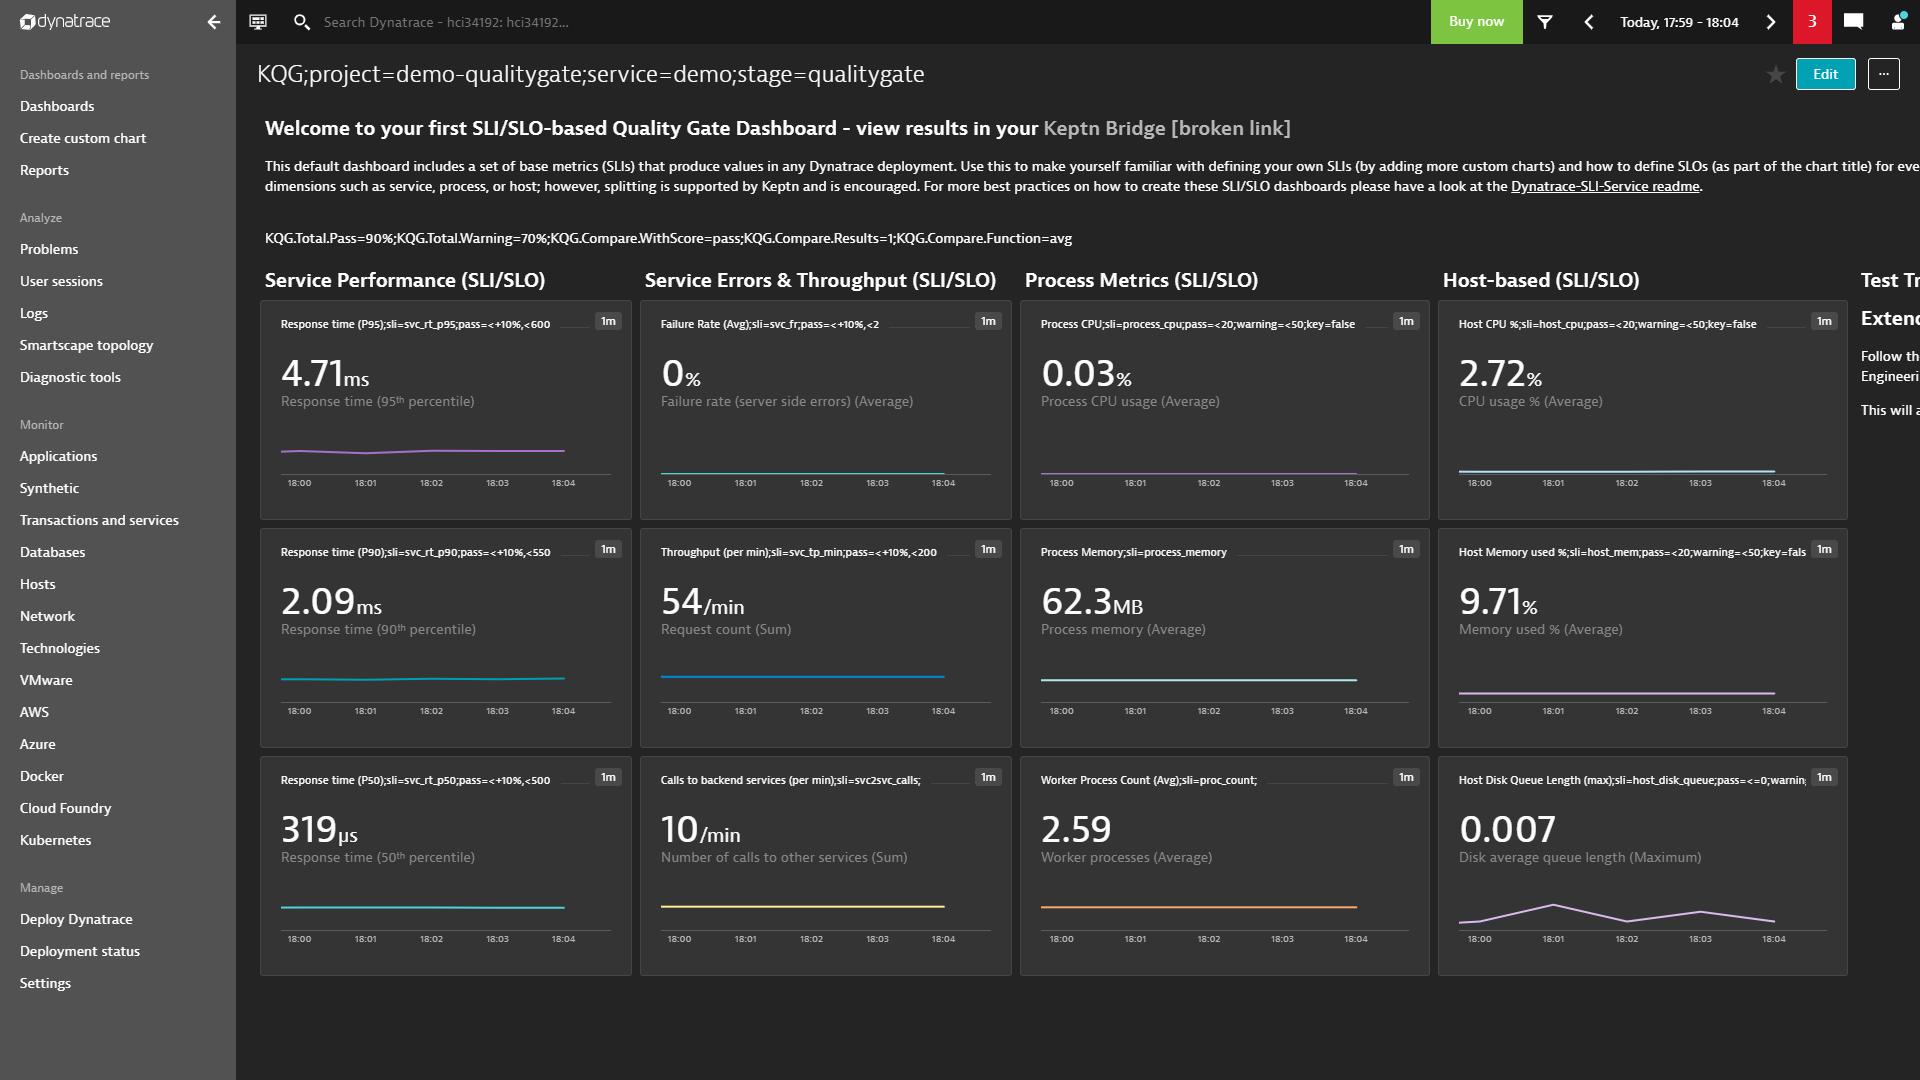
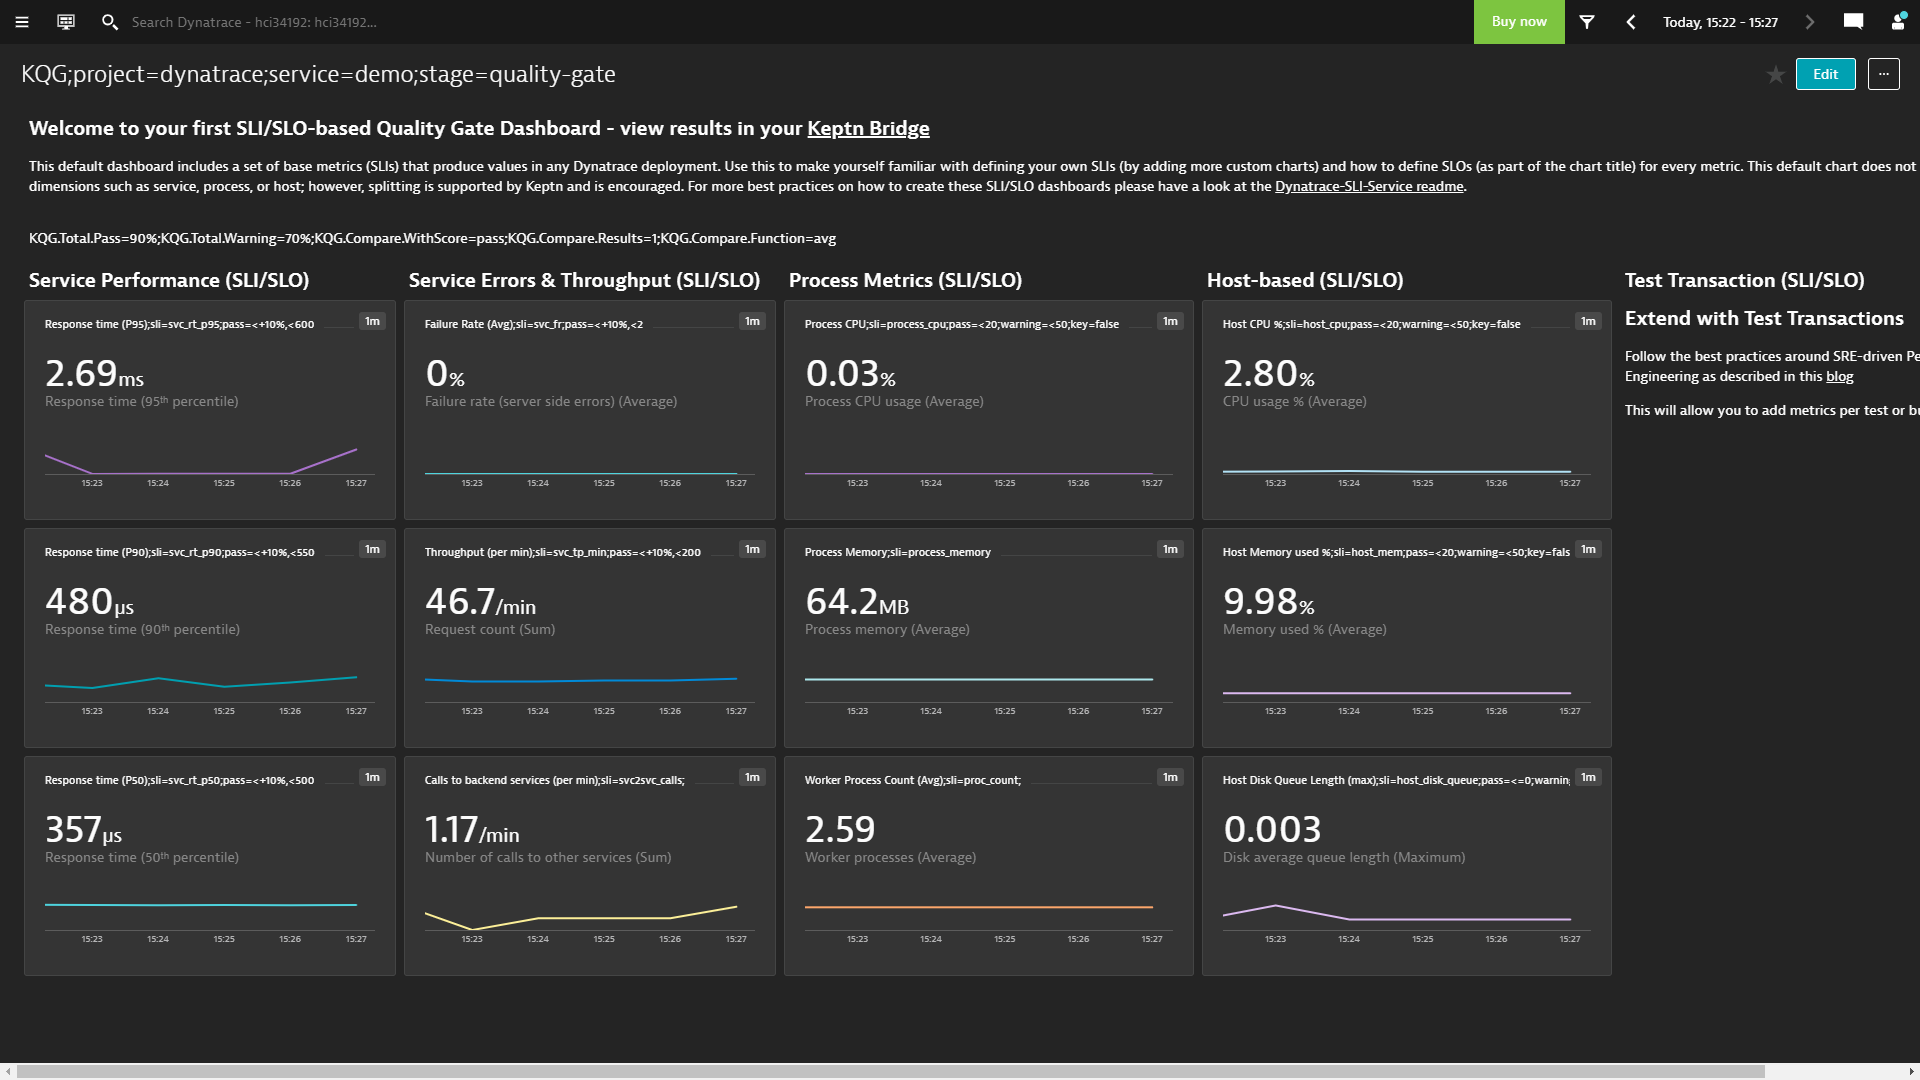
finalizing first version of dynatrace use cases

diff --git a/README-KeptnForDynatrace.md b/README-KeptnForDynatrace.md
@@ -1,0 +1,218 @@
+# Keptn for Dynatrace Users in 5 Minutes
+
+If you follow this installation guide you will be able to explore the key Keptn use cases with Dynatrace:
+* SLI/SLO Based Quality Gates
+* Performance as a Self-Service
+* Auto-Remediation
+
+**Watch this tutorial on YouTube:** [SLO-based Quality Gates with Keptn & Dynatrace in 5 Minutes](https://www.youtube.com/watch?v=650Gn--XEQE&list=PLqt2rd0eew1YFx9m8dBFSiGYSBcDuWG38&index=4&t=2s)
+
+For Dynatrace users this script installs Dynatrace related Keptn services (`--with-dynatrace`) and connects them to your Dynatrace Tenant (SaaS or Managed). 
+It also gives you the option (`--with-demo dynatrace`) to create your first Keptn Dynatrace Demo projects so you can immediatly explore how Quality Gates, Performance as a Self-Service and Auto-Remediation Use Cases work with Keptn & Dynatrace.
+
+## Three Pre-Requisits
+
+### 1 - Dynatrace Credentials
+
+For enabling Dynatrace support we need to export DT_TENANT & DT_API_TOKEN so that Keptn can connect to your Dynatrace Tenant! More details on the [Keptn doc](https://keptn.sh/docs/0.7.x/monitoring/dynatrace/install/)
+
+### 2 - Public IP or Host Name
+
+The script will try to fetch your machines IP or Hostname. If you run on AWS, GCP or DigitalOcean you can specify the (`--provider aws|gcp|digitalocean`) option to let the script use some documented APIs to query the public IP.
+
+You can also specify the public IP via (`--ip YOURIP`).
+
+If you do have an FQDN (Full Qualified Domain Name) for your host you should pass it in via (`--fqdn yourdomain.abc`).
+
+### 3 - Certifcate & k3s accessible from Dynatrace
+
+For the Auto-Remediation Use Case to work Dynatrace needs to be able to send problem notifications to your Keptn. This means your Keptn installation must be accessible from your Dynatrace Tenant (SaaS or Managed) and it must have an SSL certificate issued for your hostname/FQDN. The installation script either allows you to specifiy your own FQDN (Full Qualified Domain Name) via (`--fqdn yourdomain.abc`) or it can use your machines IP and leverage the service *xip.io* to get a DNS such as YOURIP.xip.io. 
+
+**Caution:** While xip.io is a good demo option it is not 100% reliable! A better option is to create your own DNS entry to point to your machine and then specify it via the (`--fqdn yourdomain.abc`)
+
+Good news is that the script provides the option (`--letsencrypt`) which creates a self-signed certificate for either your 1.2.3.4.xip.io or your FQDN. If you want to use letsencrypt we need to export the environment variables LE_STAGE=staging and CERT_EMAIL=someemail
+
+## Installation including 3 Demo Projects
+
+Let's first export all relevant environment variables we need:
+```console
+$ export DT_TENANT=abc12345.live.dynatrace.com
+$ export DT_API_TOKEN=YOURTOKEN
+$ export LE_STAGE=staging
+$ export CERT_EMAIL=myemail@mydomain.com
+```
+
+**Option 1:** Install with xip.io domain and self-signed certificate
+
+You see that the sample uses the `--with-demo dynatrace`, `--letsencrypt` and `--provider aws` option:
+```console
+$ curl -Lsf https://raw.githubusercontent.com/keptn-sandbox/keptn-on-k3s/dynatrace-support/install-keptn-on-k3s.sh | bash -s - --provider aws --with-dynatrace --with-demo dynatrace --letsencrypt
+``` 
+
+**Option 2:** Use your own custom domain that points to your host
+You see that the sample additionally uses the `--fqdn mykeptn.mydomain.com` option:
+```console
+$ curl -Lsf https://raw.githubusercontent.com/keptn-sandbox/keptn-on-k3s/dynatrace-support/install-keptn-on-k3s.sh | bash -s - --provider aws --with-dynatrace --with-demo dynatrace --letsencrypt --fqdn mykeptn.mydomain.com
+``` 
+
+Installation will take about 4-5 minutes assuming there are no issues with getting a certifcate, you have enough resources, ...
+In case you run into an issue - simply try it again. If you still have an issue - ping us on the [Keptn Slack](https://slack.keptn.sh)
+
+. Once its done you see a console output similiar to this:
+```console
+#######################################>
+# Keptn Deployment Summary
+#######################################>
+API URL   :      https://12.23.34.45.xip.io/api
+Bridge URL:      https://12.23.34.45.xip.io/bridge
+Bridge Username: keptn
+Bridge Password: BRIDGEPASSWORD
+API Token :      KEPTN_API_TOKEN
+
+#######################################>
+# Dynatrace Demo Summary: 3 Use Cases to explore
+#######################################>
+3 Dynatrace Demo projects have been created, the Keptn CLI has been downloaded and configured and a first demo quality gate was already executed.
+
+For the Quality Gate Use case you can do this::
+1: Open the Keptn's Bridge for your Quality Gate Project:
+   Project URL: https://12.23.34.45.xip.io/bridge/project/dynatrace
+   User / PWD: keptn / BRIDGEPASSWORD
+2: Run another Quality Gate via:
+   keptn send event start-evaluation --project=dynatrace --stage=quality-gate --service=demo
+3: Automatically synchronize your Dynatrace monitored services with Keptn by adding the 'keptn_managed' and 'keptn_service:SERVICENAME' tag
+   More details here: https://github.com/keptn-contrib/dynatrace-service#synchronizing-service-entities-detected-by-dynatrace
+
+For the Performance as a Self-Service Demo we have created a project that contains a simple JMeter test that can test a single URL.
+Here are 3 things you can do:
+1: Open the Keptn's Bridge for your Performance Project:
+   Project URL: https://12.23.34.45.xip.io/bridge/project/demo-performance
+   User / PWD: keptn / BRIDGEPASSWORD
+2: In Dynatrace pick a service you want to run a simple test against and add the manual label: appundertest
+3: (optional) Create an SLO-Dashboard in Dynatrace with the name: KQG;project=demo-performance;service=appundertest;stage=performance
+4: Trigger a Performance test for an application that is accessible from this machine, e.g. http://yourapp/yoururl
+   ./senddeployfinished.sh demo-performance performance appundertest performance_withdtmint http://yourapp/yoururl
+5: Watch data in Dynatrace as the test gets executed and watch the Quality Gate in Keptn after test execution is done!
+
+For the Auto-Remediation Demo we have created project demo-remediation that contains a default remediation.yaml and some bash and python scripts
+In order for this to work do
+1: Create a new Problem Notification Integration as explained in the readme
+2: Either force Dynatrace to open a problem ticket, create one through the API or execute createdtproblem.sh
+3: Watch the auto-remediation actions in Keptn's bridge
+   Project URL: https://12.23.34.45.xip.io/bridge/project/demo-remediation
+   User / PWD: keptn / BRIDGEPASSWORD
+
+Explore more Dynatrace related tutorials on https://tutorials.keptn.sh
+
+If you want to install the Keptn CLI somewhere else - here the description:
+- Install the keptn CLI: curl -sL https://get.keptn.sh | sudo -E bash
+- Authenticate: keptn auth  --api-token "KEPTN_API_TOKEN" --endpoint "https://12.23.34.45.xip.io/api"
+
+If you want to uninstall Keptn and k3s simply type: k3s-uninstall.sh!
+
+Now go and enjoy Keptn!
+```
+
+## Use Case 1: Quality Gate
+
+**Watch this Use Case on YouTube:** [SLO-based Quality Gates with Keptn & Dynatrace in 5 Minutes](https://www.youtube.com/watch?v=650Gn--XEQE&list=PLqt2rd0eew1YFx9m8dBFSiGYSBcDuWG38&index=4&t=2s)
+
+So - for the quality gate use case there is already a project created called *dynatrace*. A first quality gate evaluation was already triggered during the installation so you should already see the first results. If you want you can also run a couple more quality gate evaluation using the keptn CLI command shown in the output:
+```console
+keptn send event start-evaluation --project=dynatrace --stage=quality-gate --service=demo
+```
+
+Here is how this should look like in your Keptn's Bridge:
+![](./images/keptnqualitygate_dynatrace.png)
+
+When you click the dashboard link that is shown as a label in the *Evaluation done* event you get to the Dynatrace SLO Dashboard that is linked to this Keptn project:
+![](./images/dynatraceslodashboard.png)
+
+From here on you can either modify the dashboard to add more SLIs, or you can run more quality gate evaluations:
+
+You can also use this project to let Keptn manage any of your application services Dynatrace is currently monitoring. This is possible through the built-in synchronization option:
+![](./images/synchronizing_dynatrace_entities.png)
+
+## Use Case 2: Performance as a Self-Service
+
+**Watch this Use Case on YouTube:** [SLO-based Quality Gates with Keptn & Dynatrace in 5 Minutes](https://www.youtube.com/watch?v=650Gn--XEQE&list=PLqt2rd0eew1YFx9m8dBFSiGYSBcDuWG38&index=4&t=2s)
+
+The demo comes with a project called *demo-performance* which has been pre-loaded with a basic JMeter script that can execute requests against ANY URL. This can be used for demo purposes to show how Keptn can orchestrate the execution of a test against any monitored service and then evaluate SLI/SLO-based quality gates.
+
+All you need to do is put a tag on one of your services in Dynatrace called *appundertest* and then use the script *senddeployfinished.sh* and giving it the URL of that service endpoint. Then wait for the results!
+
+![](./images/perfaaservice_animated.gif)
+
+## Use Case 3: Auto-Remediation
+
+**YouTube Tutorial coming Dec 1st:**
+
+This demo allows you to have Keptn react to ANY or SOME problems that Dynatrace detects by executing a remediation workflow. The remediation workflow will execute either a Python script, bash script or can execute an HTTP webhook. 
+
+For this example we need to
+1: Create a Dynatrace Problem Notification to send ALL/SOME Events from Dynatrace to our *demo-remediation* Keptn project
+2: (optionally) Simulate an problem event
+
+### Create Problem Notification in Dynatrace
+I've prepared a sample script that can setup the problem notification for you - or - you can create it yourself!
+
+If you want to create this yourself simply create a new Webhook Problem Notification in Dynatrace
+* Webhook URL: `YOURKEPTNDOMAIN/api/v1/event`
+* Header x-token: `YOURKEPTNAPITOKEN`
+* Header Content-Type: `application/cloudevents+json`
+Payload:
+```json
+{
+    "specversion":"0.2",
+    "shkeptncontext":"{PID}",
+    "type":"sh.keptn.events.problem",
+    "source":"dynatrace",
+    "id":"{PID}",
+    "time":"",
+    "contenttype":"application/json",
+    "data": {
+        "State":"{State}",
+        "ProblemID":"{ProblemID}",
+        "PID":"{PID}",
+        "ProblemTitle":"{ProblemTitle}",
+        "ProblemURL":"{ProblemURL}",
+        "ProblemDetails":{ProblemDetailsJSON},
+        "Tags":"keptn_project:demo-remediation,keptn_stage:production,keptn_service:allproblems,mycustomtag,{Tags}",
+        "ImpactedEntities":{ImpactedEntities},
+        "ImpactedEntity":"{ImpactedEntity}"
+    }
+}
+```
+Select the best alerting profile and then hit *Send test notification*. This should send an event to Keptn which seconds later you should also see in Keptn's demo-remediation project. It will also kick off the default remediation workflow which just executes a simple bash script that echos some data!
+If the Dynatrace UI tells you that something is not working it is most likely that your Dynatrace Tenant cannot reach your Keptn. This is why we mentioned in the beginning that your machine needs to be accessible from your Dynatrace Tenant (SaaS or Managed)
+
+### Simulate some problems
+
+If your Dynatrace environment detects problems on a regular basis then you are already set and can start watching how Keptn will execute remediation workflows.
+If you however just do this in a demo environment where you don't have new problems come in all the time we can use the *createdtproblem.sh* script to simulate some problems. What this script needs is a Dynatrace Entity ID it can send a problem event to. The best is if you pick any Dynatrace HOST Entity, e.g: HOST-ABCD123123AD. Navigate to one of your hosts and copy it from the URL. Now we export this value via DT_ENTITY_ID
+
+**Demo Problem 1: Power outage**
+```console
+export DT_ENTITY_ID=HOST-YOURHOSTENTITYID
+./createdtproblem.sh
+```
+
+![](./images/remediation_demo1.png)
+
+**Demo Problem 2: Critial Performance Issue**
+```console
+./createdtproblem.sh PERFORMANCE_EVENT 'Critical Performance Issue'
+```
+
+![](./images/remediation_demo2.png)
+
+### Remediation.yaml & Scripts
+
+Check out the [remediation.yaml](./files/remediation.yaml) that this sample uses to make yourself familiar with remediation workflows in Keptn.
+This demo also uses the [generic-executor-service that allows](https://github.com/keptn-sandbox/generic-executor-service/) you to execute any type of Python, Bash or HTTP script. You can find all the scripts either in this repo under [files](./files) or on your keptn k3s machine in the keptn folder!
+
+
+### Cleanup: Uninstall k3s
+```console
+k3s-uninstall.sh
+```

diff --git a/README.md b/README.md
@@ -12,8 +12,10 @@ On top of that you are free to install any other Keptn Service such as the Notif
 
 If you want to watch our Keptn on k3s webinar [click here!](https://www.youtube.com/watch?v=hx0NHj4u7ic)
 
+If you want to use Keptn with Dynatrace check out [Keptn for Dynatrace in 5 Minutes](README-KeptnForDynatrace.md)
+
 ### Use Case
- * You want to try out keptn
+ * You want to try out Keptn
  * You don't want to deal with Kubernetes
  * You have access to a Linux host
  
@@ -38,7 +40,7 @@ The script allows a couple of parameters
 | Parameter Name | Values | Comment |
 | ------------------------------ | ------ | --------|
 | `--with-prometheus` | | Will enable Prometheus Support |
-| `--with-dynatrace` | | Will enable Dynatrace Support.<br>Requires DT_API_TOKEN, DT_PAAS_TOKEN and DT_TENANT env variables to be set |
+| `--with-dynatrace` | | Will enable Dynatrace Support.<br>Requires DT_API_TOKEN and DT_TENANT env variables to be set |
 | `--with-jmeter` | | Will install JMeter Service |
 | `--with-slackbot` | | Will install the Keptn slackbot. <br> Requires SLACKBOT_TOKEN env variable to be set |
 | `--use-xip` | | Will use a xip.io domain, will also be added when LE_STAGE=staging is selected |
@@ -47,96 +49,19 @@ The script allows a couple of parameters
 | `--fqdn` | YOURFQDN | Allows you to pass your own hostname, allows you to create production LetsEncrypt Certificates, You need to create your own DNS entry |
 | `--with-demo` | dynatrace | Will install demo projects for Dynatrace |
 
-
 ### TLS Certificates
 keptn-on-k3s comes with [cert-manager](https://cert-manager.io/). By default, a self-signed certificate is generated. By adding `--letsencrypt` as a parameter, and a CERT_EMAIL is exported, you will create a LetsEncrypt-Staging certificate. By additionally exporting `LE_STAGE=production`, a LetsEncypt Production certificate will be issued (will not work with xip.io and nip.io). 
 
-## Keptn for Dynatrace Users in 5 Minutes
+## Installing Keptn for Dynatrace in 5 Minutes
 
-For Dynatrace users the script installs Dynatrace related Keptn services (`--with-dynatrace`) and connects them to your Dynatrace Tenant (SaaS or Managed). 
-It also gives you the option (`--with-demo dynatrace`) to create your first Keptn Dynatrace Demo projects so you can immediatly explore how Quality Gates or Performance as a Self-Service works with Keptn & Dynatrace.
+For all details please check out [Keptn for Dynatrace in 5 Minutes](README-KeptnForDynatrace.md)
 
-**Pre-Requisit:** For enabling Dynatrace support you must first export DT_TENANT & DT_API_TOKEN so that Keptn can connect to your Dynatrace Tenant!
-**--provider:** Depending on your virtual machine either specify aws, gcp, digitalocean or remove that parameter if you run this on any other supported linux!
-**Certificate with xip.io:** For the Auto-Remediation Use case we want Dynatrace to push problems to Keptn. This requires a full qualified domain name and a valid certificate for the Keptn ingress. The parameter --letsencrypt makes our script create a self-signed staging letsencrypt certificate using xip.io to get a FQDN. For this to also work we need to specify LE_STAGE and CERT_EMAIL. You can leave CERT_EMAIL with the bogus email as it is not relevant! 
-If you have your own domain name for your host you can set this via the parameter --FQDN mykeptn.mydomain.com!
-
-Here the enviornment variables you need to set:
-```console
-$ export DT_TENANT=abc12345.live.dynatrace.com
-$ export DT_API_TOKEN=YOURTOKEN
-$ export LE_STAGE=staging
-$ export CERT_EMAIL=myemail@mydomain.com
-```
-
-**Option 1:** Install with xip.io domain and self-signed certificate
+As an example - here is your script to install Keptn for Dynatrace on an Amazon Linux 2 EC2 machine with pre-configured projects for Quality Gates, Performance Automation & Auto-Remediation:
 ```console
 $ curl -Lsf https://raw.githubusercontent.com/keptn-sandbox/keptn-on-k3s/dynatrace-support/install-keptn-on-k3s.sh | bash -s - --provider aws --with-dynatrace --with-demo dynatrace --letsencrypt
-``` 
-
-**Option 2:** Use your own custom domain that points to your host
-```console
-$ curl -Lsf https://raw.githubusercontent.com/keptn-sandbox/keptn-on-k3s/dynatrace-support/install-keptn-on-k3s.sh | bash -s - --provider aws --with-dynatrace --with-demo dynatrace --letsencrypt --FQDN mykeptn.mydomain.com
-``` 
-
-It takes about 2-3 minutes (or 4-5 if you use the --letsencrypt option). Once its done you see a console output similiar to this:
-```console
-#######################################>
-# Keptn Deployment Summary
-#######################################>
-API URL   :      https://12.123.77.189/api
-Bridge URL:      https://12.123.77.189/bridge
-Bridge Username: keptn
-Bridge Password: BRIDGEPASSWORD
-API Token :      KEPTNAPITOKEN
-
-#######################################>
-# Dynatrace Demo Summary
-#######################################>
-The Dynatrace Demo projects have been created, the Keptn CLI has been downloaded and configured and a first demo quality gate was already executed.
-Here are 3 things you can do:
-1: Open the Keptn's Bridge for your Quality Gate Project:
-   Project URL: https://12.123.77.189/bridge/project/dynatrace
-   User / PWD: keptn / BRIDGEPASSWORD
-2: Run another Quality Gate via:
-   keptn send event start-evaluation --project=dynatrace --stage=qualitygate --service=qualitygateservice
-3: Automatically synchronize your Dynatrace monitored services with Keptn by adding the 'keptn_managed' and 'keptn_service:SERVICENAME' tag
-   More details here: https://github.com/keptn-contrib/dynatrace-service#synchronizing-service-entities-detected-by-dynatrace
-
-For the Performance as a Self-Service Demo we have created a project that contains a simple JMeter test that can test a single URL.
-Here are 3 things you can do:
-1: Open the Keptn's Bridge for your Performance Project:
-   Project URL: https://12.123.77.189/bridge/project/demo-performance
-   User / PWD: keptn / BRIDGEPASSWORD
-2: In Dynatrace pick a service you want to run a simple test against and add the manual label: appundertest
-3: (optional) Create an SLO-Dashboard in Dynatrace with the name: KQG;project=demo-performance;service=appundertest;stage=performance
-4: Trigger a Performance test for an application that is accessible from this machine, e.g. http://yourapp/yoururl
-   ./senddeployfinished.sh demo-performance performance appundertest performance_withdtmint http://yourapp/yoururl
-5: Watch data in Dynatrace as the test gets executed and watch the Quality Gate in Keptn after test execution is done!
-
-Explore more Dynatrace related tutorials on https://tutorials.keptn.sh
-
-If you want to install the Keptn CLI somewhere else - here the description:
-- Install the keptn CLI: curl -sL https://get.keptn.sh | sudo -E bash
-- Authenticate: keptn auth  --api-token "KEPTNAPITOKEN" --endpoint "https://12.123.77.189/api"
-
-If you want to uninstall Keptn and k3s simply type: k3s-uninstall.sh!
-
-Now go and enjoy Keptn!
 ```
 
-Great thing is that when opening that bridge link you immediately see your first Quality Gate Result in the Keptn *demo-qualitygate* project:
-![](./images/keptnqualitygate_dynatrace.png)
-
-When you click the dashboard link you see that a new Dynatrace SLO Dashboard was automatically created for your *demo-qualitygate* project:
-![](./images/dynatraceslodashboard.png)
-
-From here on you can either modify the dashboard to add more SLIs, or you can run more quality gate evaluations as explained in the console output, e.g:
-```console
-keptn send event start-evaluation --project=demo-demo-qualitygate --stage=qualitygate --service=demo
-```
-
-## More installation examples
+## Other installation examples
 
 Here are a couple of installation examples
 
